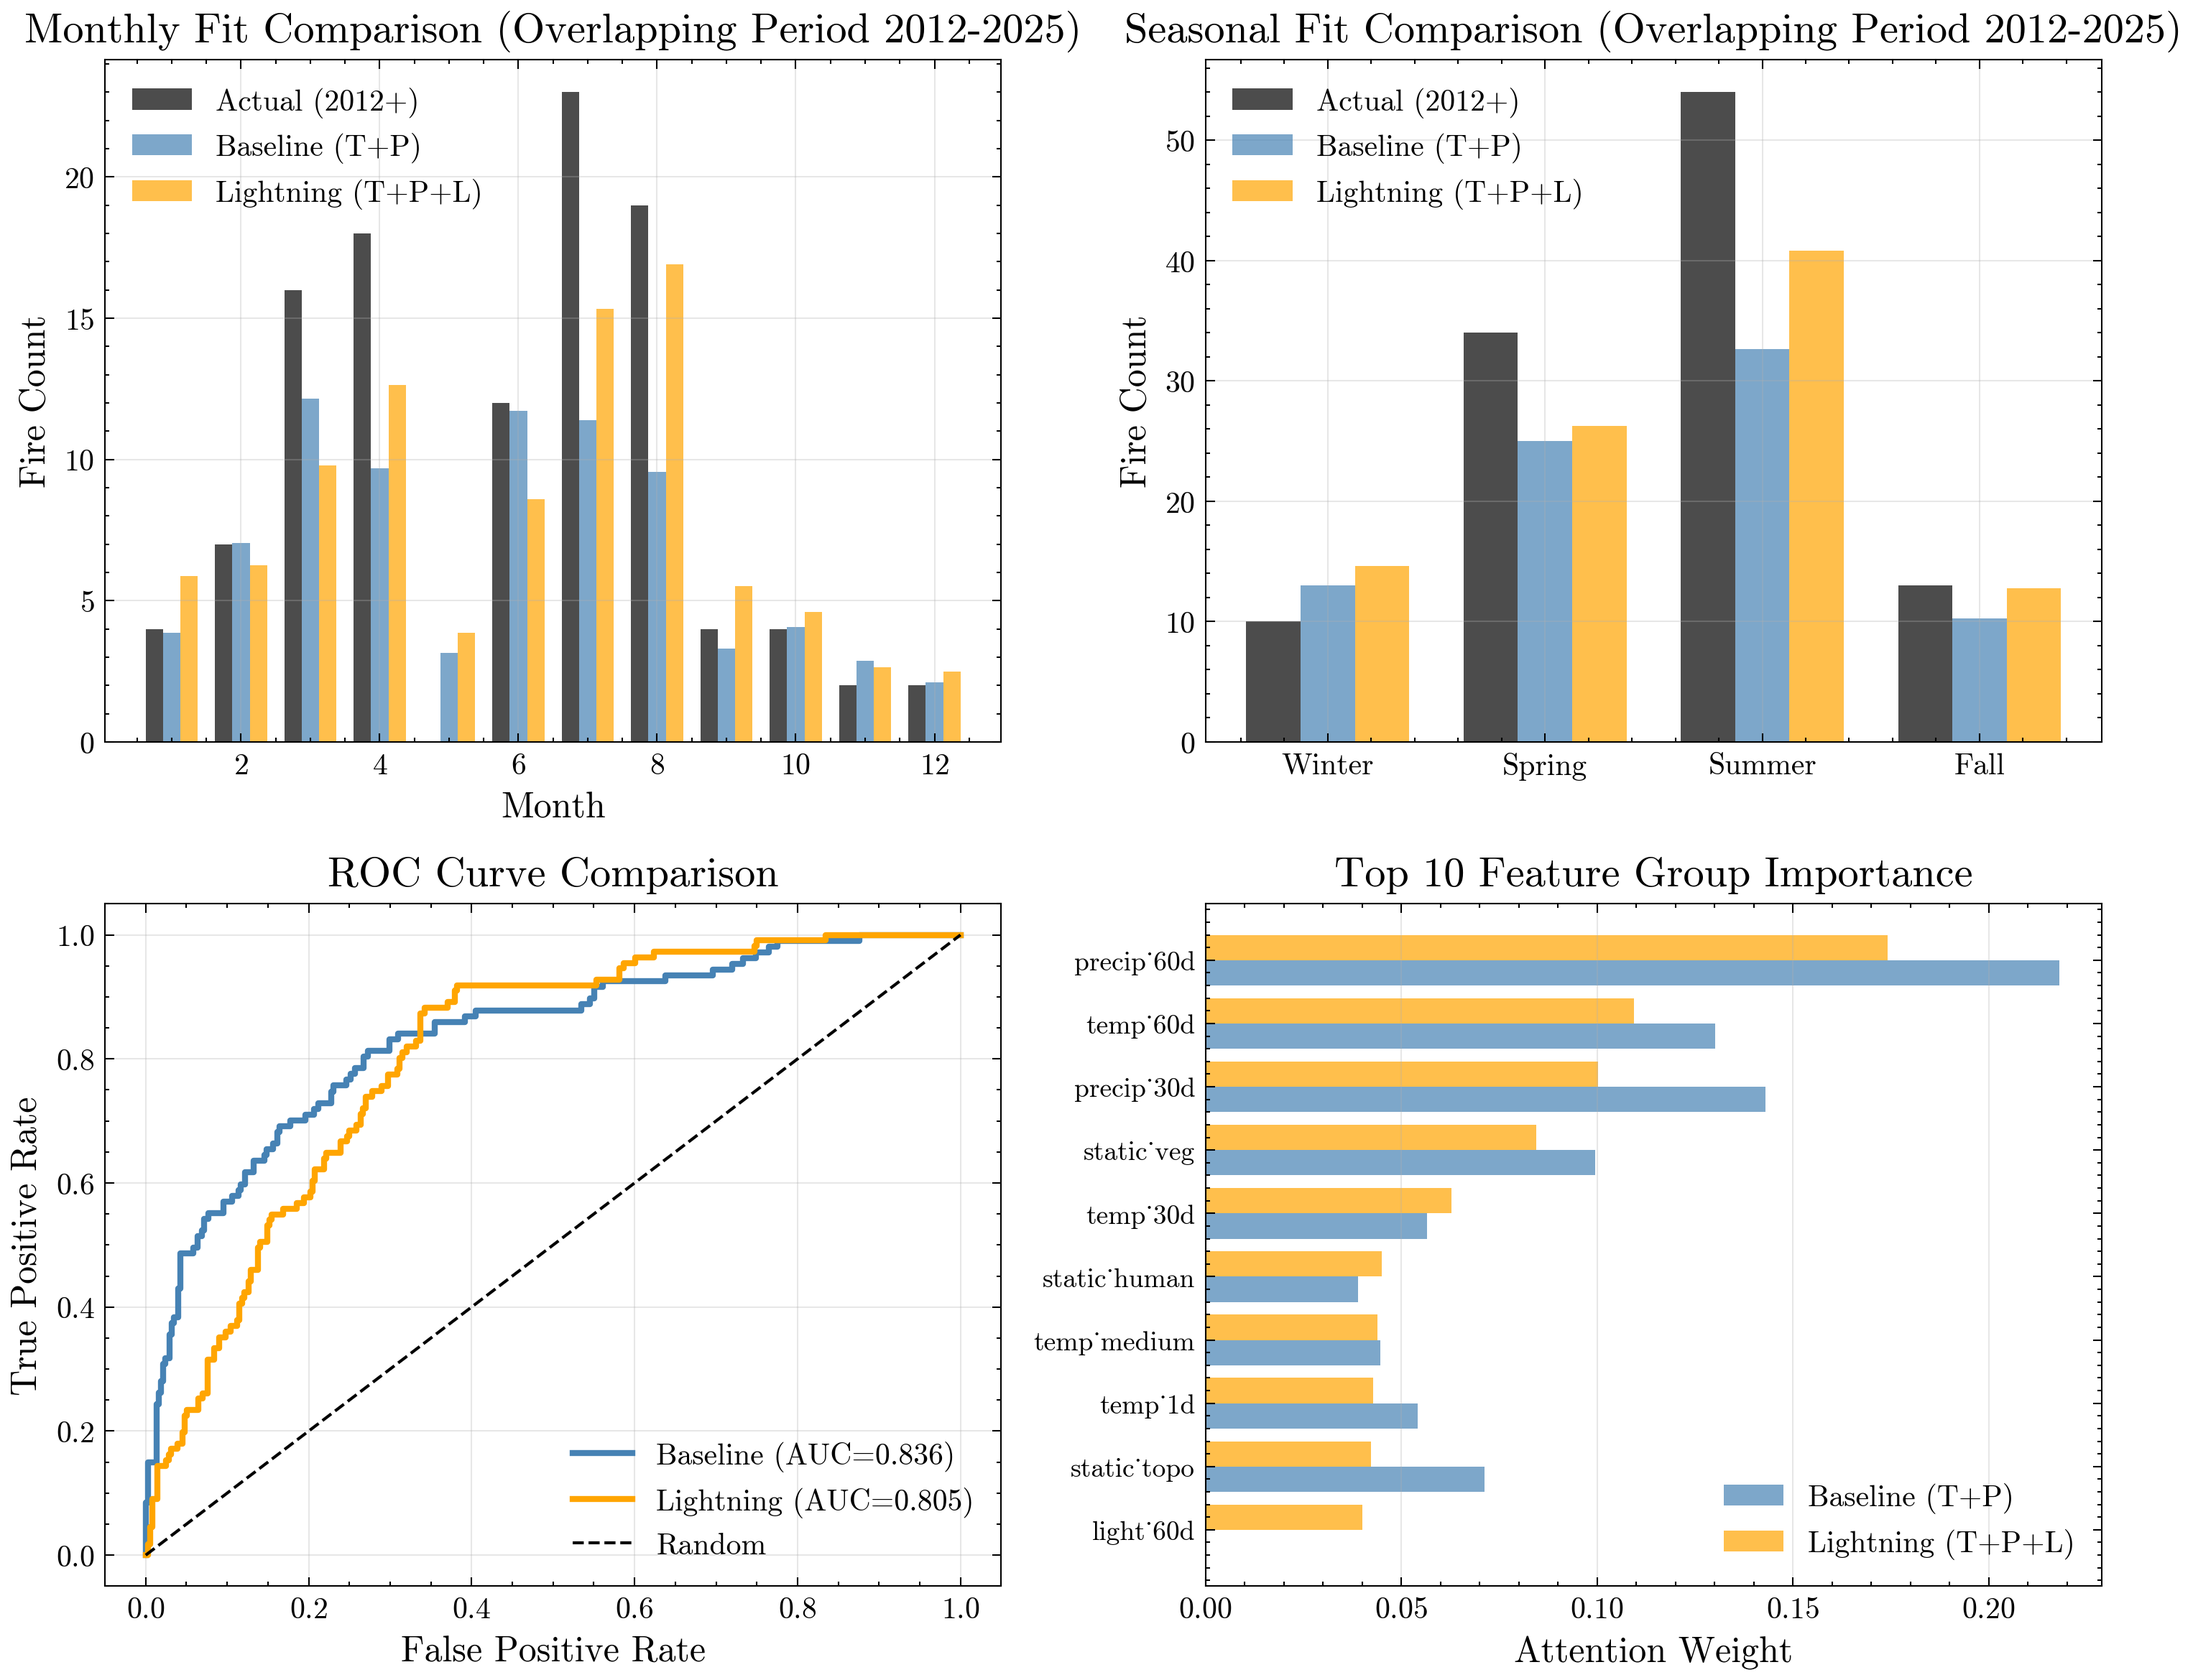
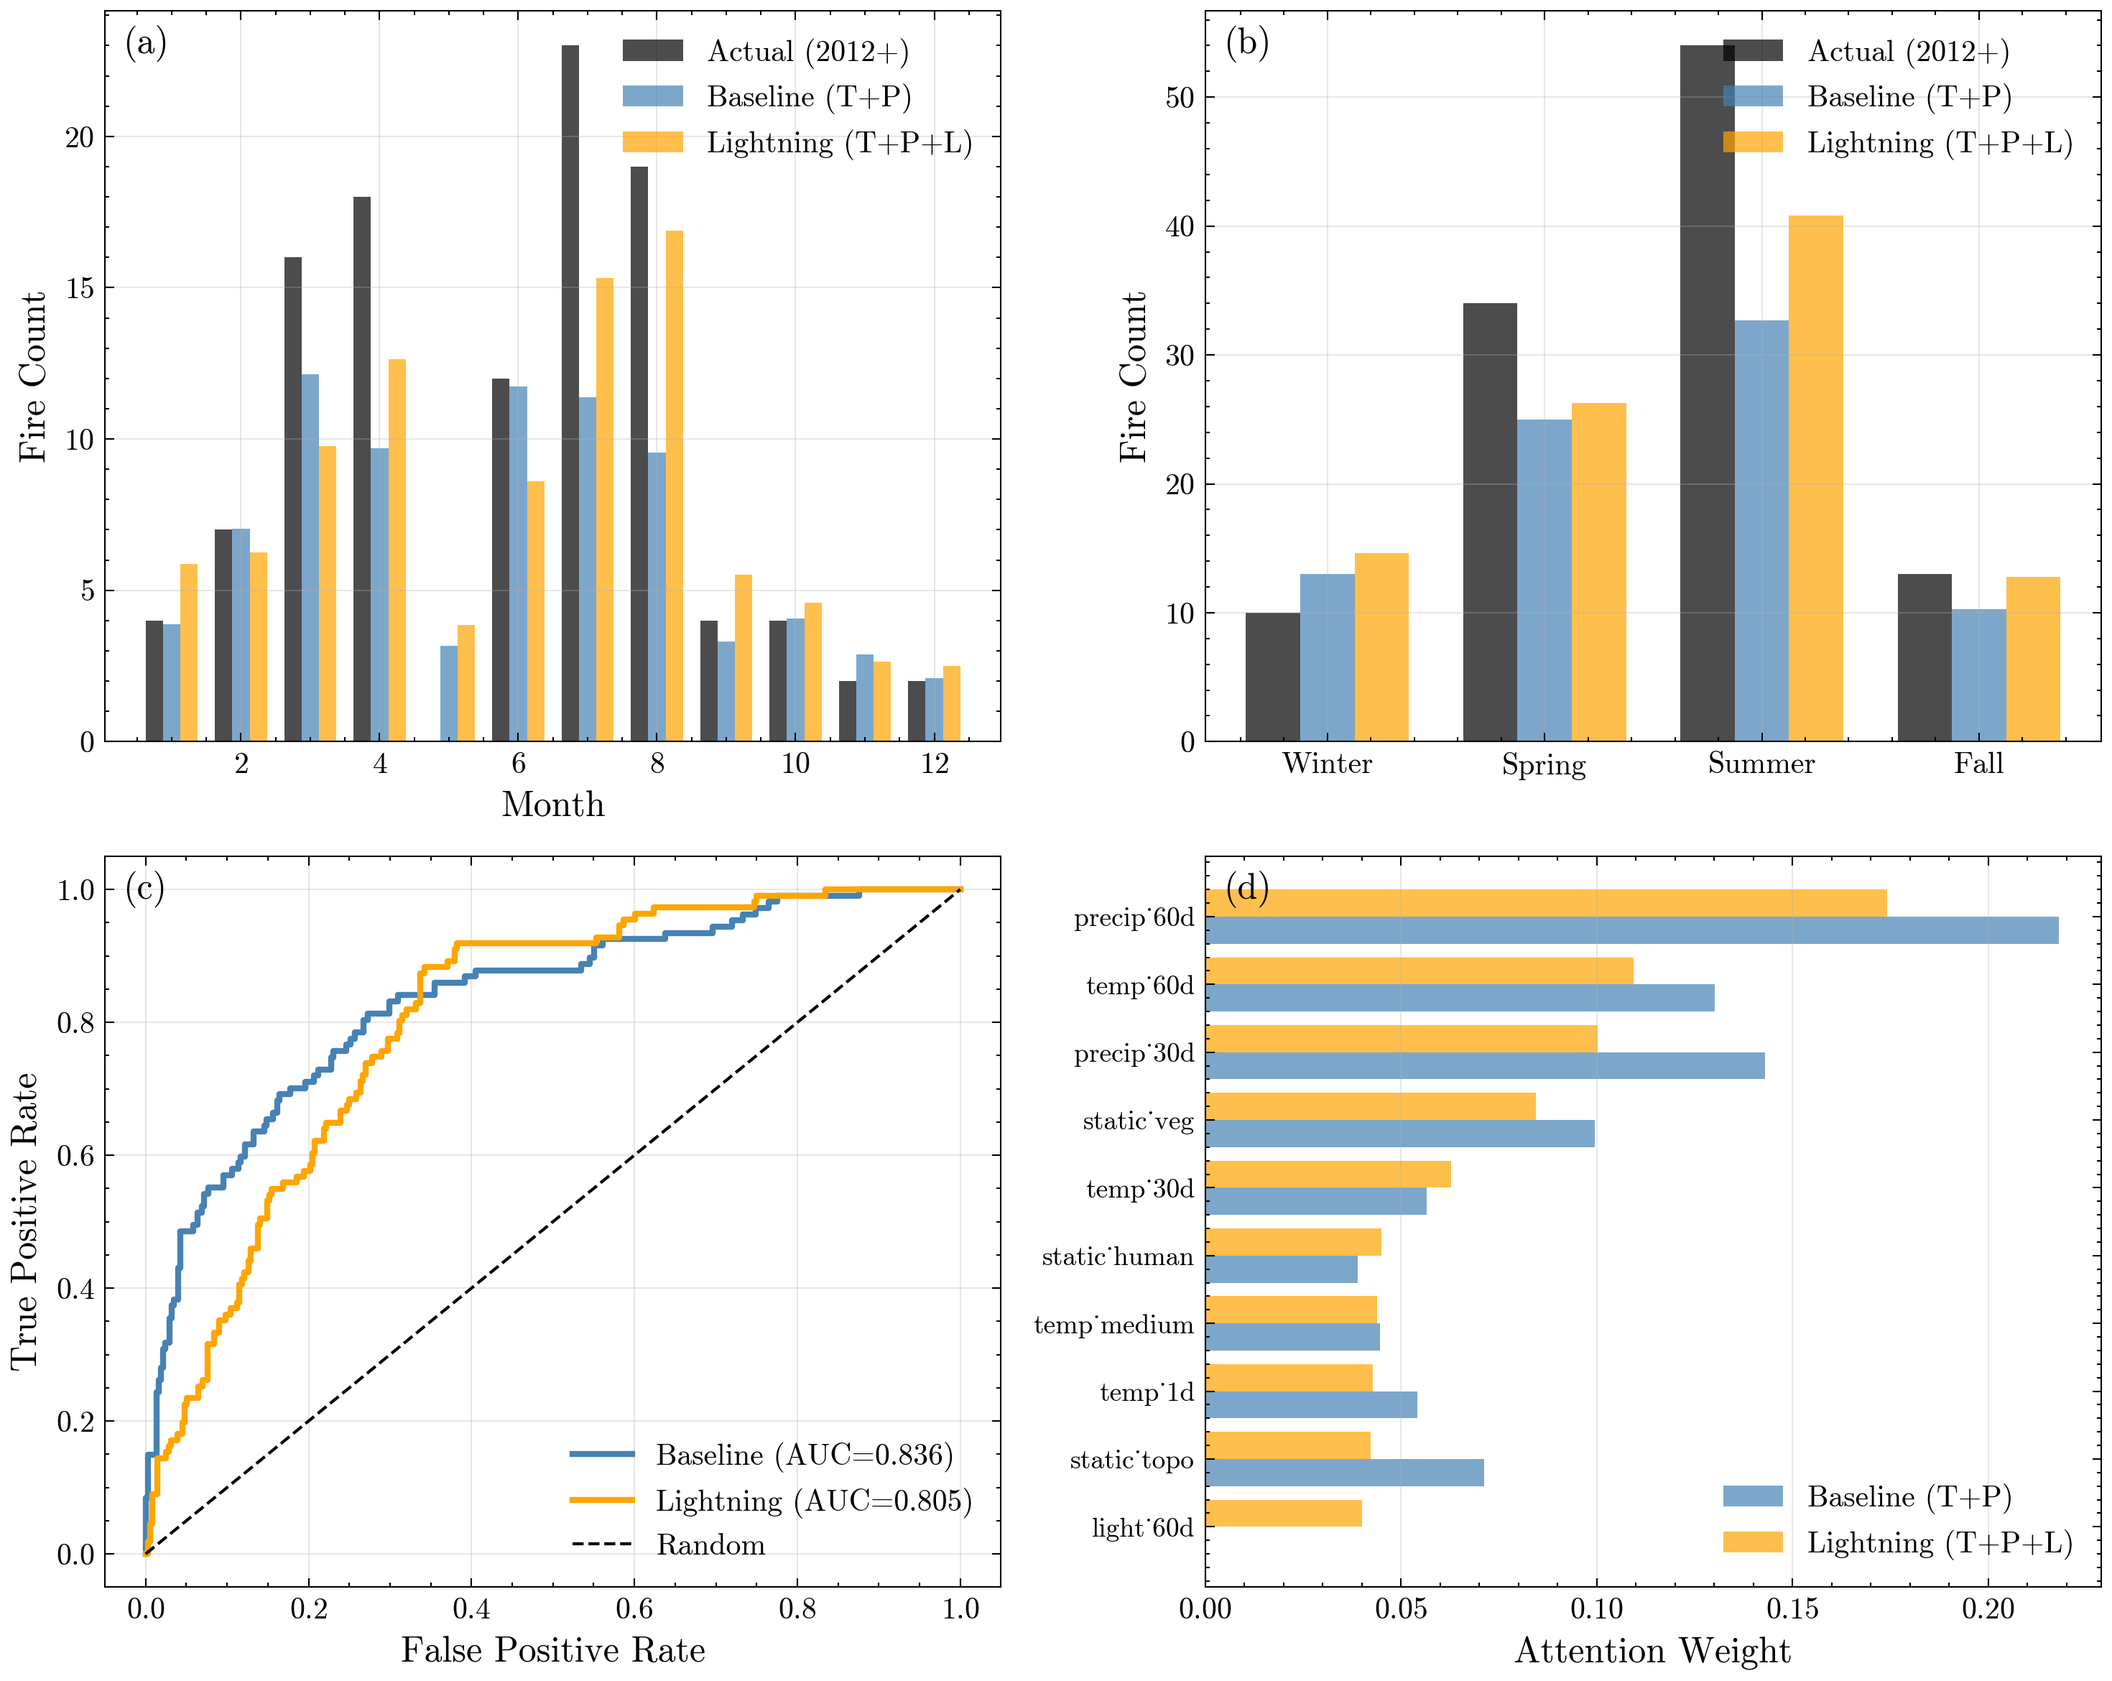
Apply consistent styling to model comparison figures
Removed titles and added panel labels to all remaining figures
to maintain consistency with scientific publication standards.

Changes to compare_models.py:
- Removed all ax.set_title() calls (4 titles)
- Added panel labels: (a), (b), (c), (d)
- Panel (a): Monthly comparison
- Panel (b): Seasonal comparison
- Panel (c): ROC curve comparison
- Panel (d): Feature importance comparison

Changes to plot_temporal_correlations.py:
- Removed all ax.set_title() calls (4 titles)
- Added panel labels with R² metrics in white boxes
- Panel (a): Monthly Baseline, R²=0.769
- Panel (b): Monthly Lightning, R²=0.927
- Panel (c): Seasonal Baseline, R²=0.640
- Panel (d): Seasonal Lightning, R²=1.000
- Adjusted legend positions to avoid overlap with panel labels

Result:
- All manuscript figures now follow consistent format
- No titles on any figures (titles only in captions)
- Clean panel labels (a, b, c, d) for reference
- Key metrics displayed within panels where appropriate
- Professional publication-ready appearance

All figures regenerated and ready for manuscript.

diff --git a/05_Lightning_Comparison/03_Model_Comparison/plot_temporal_correlations.py b/05_Lightning_Comparison/03_Model_Comparison/plot_temporal_correlations.py
@@ -148,13 +148,10 @@ ax1.plot(x_line, p(x_line), "r-", alpha=0.7, linewidth=3,
 
 ax1.set_xlabel("Actual Fire Count", fontsize=13, fontweight="bold")
 ax1.set_ylabel("Predicted Fire Count", fontsize=13, fontweight="bold")
-ax1.set_title(
-    f"Monthly - Baseline (T+P)\n"
-    f"Spearman R={spearman_r:.3f} (R²={spearman_r**2:.3f}) | "
-    f"Pearson R={pearson_r:.3f} (R²={pearson_r**2:.3f})",
-    fontsize=13, fontweight="bold", pad=10
-)
-ax1.legend(loc="upper left", fontsize=10)
+ax1.text(0.02, 0.98, f"(a) Baseline (T+P)\nR$^2$={spearman_r**2:.3f}",
+        transform=ax1.transAxes, fontsize=11, fontweight='bold',
+        va='top', ha='left', bbox=dict(boxstyle='round', facecolor='white', alpha=0.8))
+ax1.legend(loc="upper left", fontsize=10, bbox_to_anchor=(0.0, 0.85))
 ax1.grid(True, alpha=0.3)
 
 # ===================================================================
@@ -181,13 +178,10 @@ ax2.plot(x_line, p(x_line), "r-", alpha=0.7, linewidth=3,
 
 ax2.set_xlabel("Actual Fire Count", fontsize=13, fontweight="bold")
 ax2.set_ylabel("Predicted Fire Count", fontsize=13, fontweight="bold")
-ax2.set_title(
-    f"Monthly - Lightning (T+P+L)\n"
-    f"Spearman R={spearman_r:.3f} (R²={spearman_r**2:.3f}) | "
-    f"Pearson R={pearson_r:.3f} (R²={pearson_r**2:.3f})",
-    fontsize=13, fontweight="bold", pad=10
-)
-ax2.legend(loc="upper left", fontsize=10)
+ax2.text(0.02, 0.98, f"(b) Lightning (T+P+L)\nR$^2$={spearman_r**2:.3f}",
+        transform=ax2.transAxes, fontsize=11, fontweight='bold',
+        va='top', ha='left', bbox=dict(boxstyle='round', facecolor='white', alpha=0.8))
+ax2.legend(loc="upper left", fontsize=10, bbox_to_anchor=(0.0, 0.85))
 ax2.grid(True, alpha=0.3)
 
 # ===================================================================
@@ -214,13 +208,10 @@ ax3.plot(x_line, p(x_line), "r-", alpha=0.7, linewidth=3,
 
 ax3.set_xlabel("Actual Fire Count", fontsize=13, fontweight="bold")
 ax3.set_ylabel("Predicted Fire Count", fontsize=13, fontweight="bold")
-ax3.set_title(
-    f"Seasonal - Baseline (T+P)\n"
-    f"Spearman R={spearman_r:.3f} (R²={spearman_r**2:.3f}) | "
-    f"Pearson R={pearson_r:.3f} (R²={pearson_r**2:.3f})",
-    fontsize=13, fontweight="bold", pad=10
-)
-ax3.legend(loc="upper left", fontsize=10)
+ax3.text(0.02, 0.98, f"(c) Baseline (T+P)\nR$^2$={spearman_r**2:.3f}",
+        transform=ax3.transAxes, fontsize=11, fontweight='bold',
+        va='top', ha='left', bbox=dict(boxstyle='round', facecolor='white', alpha=0.8))
+ax3.legend(loc="upper left", fontsize=10, bbox_to_anchor=(0.0, 0.85))
 ax3.grid(True, alpha=0.3)
 
 # ===================================================================
@@ -247,13 +238,10 @@ ax4.plot(x_line, p(x_line), "r-", alpha=0.7, linewidth=3,
 
 ax4.set_xlabel("Actual Fire Count", fontsize=13, fontweight="bold")
 ax4.set_ylabel("Predicted Fire Count", fontsize=13, fontweight="bold")
-ax4.set_title(
-    f"Seasonal - Lightning (T+P+L)\n"
-    f"Spearman R={spearman_r:.3f} (R²={spearman_r**2:.3f}) | "
-    f"Pearson R={pearson_r:.3f} (R²={pearson_r**2:.3f})",
-    fontsize=13, fontweight="bold", pad=10
-)
-ax4.legend(loc="upper left", fontsize=10)
+ax4.text(0.02, 0.98, f"(d) Lightning (T+P+L)\nR$^2$={spearman_r**2:.3f}",
+        transform=ax4.transAxes, fontsize=11, fontweight='bold',
+        va='top', ha='left', bbox=dict(boxstyle='round', facecolor='white', alpha=0.8))
+ax4.legend(loc="upper left", fontsize=10, bbox_to_anchor=(0.0, 0.85))
 ax4.grid(True, alpha=0.3)
 
 # ===================================================================

diff --git a/05_Lightning_Comparison/03_Model_Comparison/compare_models.py b/05_Lightning_Comparison/03_Model_Comparison/compare_models.py
@@ -419,7 +419,8 @@ ax1.bar(
 )
 ax1.set_xlabel("Month", fontsize=12)
 ax1.set_ylabel("Fire Count", fontsize=12)
-ax1.set_title(f"Monthly Fit Comparison (Overlapping Period 2012-2025)", fontsize=14, fontweight="bold")
+ax1.text(0.02, 0.98, '(a)', transform=ax1.transAxes,
+        fontsize=12, fontweight='bold', va='top', ha='left')
 ax1.legend()
 ax1.grid(True, alpha=0.3)
 
@@ -465,7 +466,8 @@ ax2.bar(
 ax2.set_xticks(x)
 ax2.set_xticklabels(seasonal_data["season"])
 ax2.set_ylabel("Fire Count", fontsize=12)
-ax2.set_title(f"Seasonal Fit Comparison (Overlapping Period 2012-2025)", fontsize=14, fontweight="bold")
+ax2.text(0.02, 0.98, '(b)', transform=ax2.transAxes,
+        fontsize=12, fontweight='bold', va='top', ha='left')
 ax2.legend()
 ax2.grid(True, alpha=0.3)
 
@@ -497,12 +499,14 @@ try:
     ax3.plot([0, 1], [0, 1], "k--", linewidth=1, label="Random")
     ax3.set_xlabel("False Positive Rate", fontsize=12)
     ax3.set_ylabel("True Positive Rate", fontsize=12)
-    ax3.set_title("ROC Curve Comparison", fontsize=14, fontweight="bold")
+    ax3.text(0.02, 0.98, '(c)', transform=ax3.transAxes,
+            fontsize=12, fontweight='bold', va='top', ha='left')
     ax3.legend()
     ax3.grid(True, alpha=0.3)
 except Exception as e:
     ax3.text(0.5, 0.5, f"ROC curves not available\n{str(e)}", ha="center", va="center")
-    ax3.set_title("ROC Curve Comparison", fontsize=14, fontweight="bold")
+    ax3.text(0.02, 0.98, '(c)', transform=ax3.transAxes,
+            fontsize=12, fontweight='bold', va='top', ha='left')
 
 # Attention weights comparison
 ax4 = axes[1, 1]
@@ -556,7 +560,8 @@ ax4.barh(
 ax4.set_yticks(y_pos)
 ax4.set_yticklabels(comparison["group"], fontsize=9)
 ax4.set_xlabel("Attention Weight", fontsize=12)
-ax4.set_title(f"Top {top_n} Feature Group Importance", fontsize=14, fontweight="bold")
+ax4.text(0.02, 0.98, '(d)', transform=ax4.transAxes,
+        fontsize=12, fontweight='bold', va='top', ha='left')
 ax4.legend()
 ax4.grid(True, alpha=0.3, axis="x")
 
